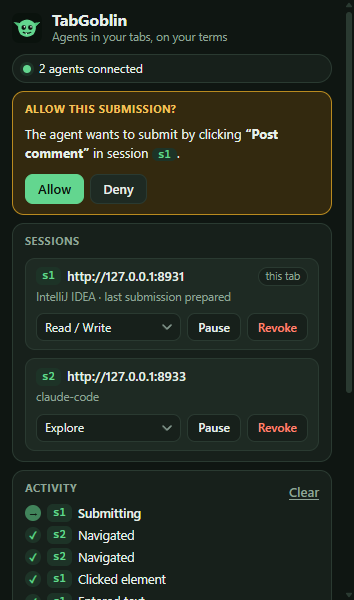
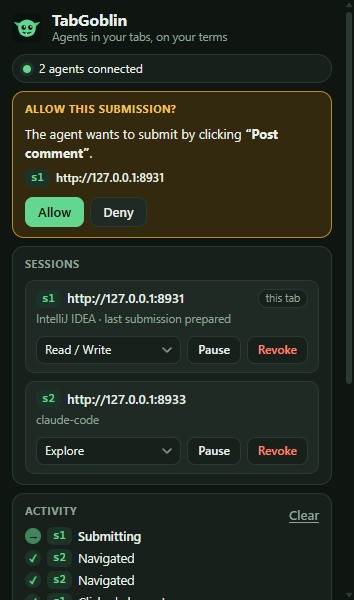
Give the confirmation prompt its final look, checked by eye
The prompt for Enter in a text box was put together from the one for a
click. Looked at in the real popup, in both colour schemes and with a long
name, a high-impact name and no name, it had these flaws:

- The session chip ended the sentence, leaving a period standing alone.
- The explanation ran on in the same weight as the question.
- It did not say which website it was about.
- A long name was cut in the middle of a word, without a mark.
- A text box without a name was shown as a quotation, "a text box".
- A prompt for deleting or paying looked like any other.

Now the question stands alone, with Enter drawn as a key. The explanation
is a line of its own in the muted colour. Below it are the session and its
website. A name that is cut is cut at a word and ends in an ellipsis. What
has no name is described in plain words. A high-impact prompt is in the
colour of danger, its Allow button included. The prompt for a click has
the same structure.

The pictures in docs/images are regenerated from the real popup, and the
user guide shows the new prompt next to the one for a click.

Claude-Session: https://claude.ai/code/session_01Jo6BBeS5qe77AnBj7zFUgi

Changed region(s): [[0.0311, 0.24, 0.9633, 1.0], [0.7147, 0.54, 0.8701, 0.6], [0.9633, 0.63, 0.9944, 0.66]]

diff --git a/chrome-extension/src/popup.ts b/chrome-extension/src/popup.ts
@@ -281,10 +281,19 @@ function render(): void {
     const enter = s.pendingConfirm.how === 'enter';
     $('confirmTitle').textContent = s.pendingConfirm.highImpact ? 'Allow this high-impact action?'
       : enter ? 'Allow pressing Enter?' : 'Allow this submission?';
-    $('confirmHow').textContent = enter ? 'The agent wants to press Enter in' : 'The agent wants to submit by clicking';
-    $('confirmWhy').textContent = enter ? ' In a message or comment box that sends what is written there.' : '';
-    $('confirmLabel').textContent = `“${s.pendingConfirm.label || 'an unnamed control'}”`;
+    // What deletes, pays or publishes does not look like a routine question.
+    $('confirm').classList.toggle('high', s.pendingConfirm.highImpact);
+    $('confirmClick').hidden = enter;
+    $('confirmEnter').hidden = !enter;
+    $('confirmWhy').hidden = !enter;
+    // The name comes from the page: shown as a quotation. What has no name is described in our own words.
+    const label = s.pendingConfirm.label;
+    $('confirmLabel').textContent = label ? `“${label}”` : enter ? 'a text box without a name' : 'a control without a name';
+    $('confirmLabel').classList.toggle('unnamed', !label);
+    // Where: the session, and the website it is on, so that the list below need not be searched.
+    const where = s.sessions.find((x) => x.id === s.pendingConfirm?.session);
     $('confirmSession').textContent = s.pendingConfirm.session;
+    $('confirmOrigin').textContent = where ? displayOrigin(where.origin) : '';
   }
 
   renderAgents(s);

diff --git a/chrome-extension/test/interact.test.ts b/chrome-extension/test/interact.test.ts
@@ -295,6 +295,22 @@ test('Enter in any text box may send what is written; search boxes and open opti
   assert.equal(d('text').click, null, 'focusable by script only: not a control');
 });
 
+test('a long name is cut at a word and marked as cut, for the prompt the user reads', () => {
+  const { doc } = page(`
+    <textarea id="long" aria-label="Reply to the whole thread, visible to everyone in the project"></textarea>
+    <textarea id="word" aria-label="${'x'.repeat(80)}"></textarea>
+    <button id="button">Delete the repository and everything in it, including all issues and wikis</button>
+    <textarea id="short" aria-label="Comment"></textarea>
+  `);
+  const key = (id: string): string => describeKeyTarget(doc.getElementById(id)!, 'Enter').label;
+  assert.equal(key('long'), 'Reply to the whole thread, visible to everyone in the…');
+  assert.equal(key('word'), `${'x'.repeat(59)}…`, 'one long word is cut where it has to be');
+  assert.equal(key('short'), 'Comment');
+  const button = describeClickTarget(doc.getElementById('button')!);
+  assert.ok(button.label.length <= 60 && button.label.endsWith('…'), button.label);
+  assert.equal(button.submit, 'likely', 'and what it says is still recognised');
+});
+
 test('Enter or Space on a control is described as the click it is', () => {
   const { doc } = page(`
     <form method="post"><input id="name"><button id="save">Save</button><input id="agree" type="checkbox"></form>

diff --git a/chrome-extension/src/interact.ts b/chrome-extension/src/interact.ts
@@ -25,11 +25,20 @@ function isSearchForm(form: HTMLFormElement): boolean {
   return !!form.closest('[role="search"], search') || !!form.querySelector('input[type="search"]');
 }
 
+/** An element's name, short enough for a prompt or a message: cut at a word where it can be, and marked as cut. */
+function shortName(el: Element, max = 60): string {
+  const name = accessibleName(el);
+  if (name.length <= max) return name;
+  const cut = name.slice(0, max - 1);
+  const word = cut.lastIndexOf(' ');
+  return `${(word > max / 2 ? cut.slice(0, word) : cut).trimEnd()}…`;
+}
+
 /** Describes what clicking an element would mean, so the policy can decide before anything happens. */
 export function describeClickTarget(el: Element): ClickTarget {
   const tag = el.localName;
   const type = inputType(el);
-  const label = accessibleName(el).slice(0, 60);
+  const label = shortName(el);
   const role = roleOf(el);
   let readSafe = false;
   let externalLink = false;
@@ -259,7 +268,7 @@ function choosesAnOption(el: Element): boolean {
  * what is written there.
  */
 export function describeKeyTarget(el: Element, key: string): KeyTarget {
-  const label = accessibleName(el).slice(0, 60);
+  const label = shortName(el);
   const none: KeyTarget = { submit: null, click: null, label };
   // In the order in which `pressKey` decides what the key does.
   const form = key === 'Enter' ? fieldOfForm(el) : null;

diff --git a/chrome-extension/src/popup.css b/chrome-extension/src/popup.css
@@ -151,6 +151,23 @@ button.link:hover { color: var(--fg); }
 /* ---------- confirmation ---------- */
 .confirm { background: var(--warn-soft); border-color: var(--warn-line); }
 .confirm p { margin-bottom: 10px; }
+.confirm .ask { margin-bottom: 6px; }
+.confirm .ask .unnamed { font-weight: inherit; }
+.confirm .why { color: var(--muted); font-size: 12px; margin-bottom: 8px; text-wrap: balance; }
+.confirm .where { display: flex; align-items: center; gap: 6px; margin-bottom: 10px; font-size: 12px; }
+.confirm .where .origin { min-width: 0; font-weight: 600; overflow: hidden; text-overflow: ellipsis; white-space: nowrap; }
+/* Deleting, paying, publishing: the colour of danger, and an Allow button that does not invite a quick click. */
+.confirm.high { background: var(--bad-soft); border-color: var(--bad); }
+.confirm.high h2 { color: var(--bad); }
+.confirm.high kbd { border-color: var(--bad); }
+.confirm.high button.primary { background: var(--bad); border-color: var(--bad); }
+/* A key, drawn as one. */
+kbd {
+  display: inline-block; padding: 0 6px; border-radius: 5px;
+  font: 600 11px/17px ui-monospace, "Cascadia Code", Consolas, monospace;
+  background: var(--card); color: var(--fg);
+  border: 1px solid var(--warn-line); border-bottom-width: 2px;
+}
 
 /* ---------- agents ---------- */
 .list { list-style: none; margin: 0; padding: 0; display: flex; flex-direction: column; gap: 6px; }

diff --git a/chrome-extension/src/popup.html b/chrome-extension/src/popup.html
@@ -46,7 +46,12 @@
 
     <section id="confirm" class="card confirm" hidden>
       <h2 id="confirmTitle">Allow this submission?</h2>
-      <p><span id="confirmHow">The agent wants to submit by clicking</span> <strong id="confirmLabel"></strong> in session <span id="confirmSession" class="sid"></span>.<span id="confirmWhy"></span></p>
+      <p class="ask">
+        <span id="confirmClick">The agent wants to submit by clicking</span><span id="confirmEnter" hidden>The agent wants to press <kbd>Enter</kbd> in</span>
+        <strong id="confirmLabel"></strong>.
+      </p>
+      <p id="confirmWhy" class="why" hidden>In a message or comment box, Enter sends what is written.</p>
+      <div class="where"><span id="confirmSession" class="sid"></span><span id="confirmOrigin" class="origin"></span></div>
       <div class="row">
         <button id="allow" class="primary">Allow</button>
         <button id="deny">Deny</button>

diff --git a/chrome-extension/src/background.ts b/chrome-extension/src/background.ts
@@ -717,7 +717,7 @@ async function pressKey(op: Operation, session: SessionRecord, params: Record<st
     return submit(op, session, { ref: Number(params.ref), fields: [], expectText: undefined, submissionId: undefined, repeat: false });
   }
   if (verdict === 'ask') {
-    await confirmWithUser(op, session, target.label || (target.submit === 'form' ? 'a form field' : 'a text box'), 'enter');
+    await confirmWithUser(op, session, target.label, 'enter');
   }
   const before = { url: (await getTab(session.tabId))?.url, docId: session.documentId, at: Date.now() };
   const result = await page<object>(op, session, 'press_key', { ref: params.ref, key });

diff --git a/docs/agents/state.md b/docs/agents/state.md
@@ -6,8 +6,9 @@ Last updated: 2026-11-21. Claims here go stale; check the date, then `git status
 
 - `main` = `origin/main` = `ba977cd`: the merge of `editor-keys`, made by the owner on 2026-11-21.
   Earlier that day the owner merged `editor-compatibility`. Both branches are finished.
-- Branch `typed-lines`: local, not pushed, not merged. Two commits on top of `ba977cd`: a fill
+- Branch `typed-lines`: local, not pushed, not merged. Three commits on top of `ba977cd`: a fill
   never presses Enter, and Enter in a text box is a submission that the user allows in the popup.
+  A third commit gives that prompt its final look and regenerates the pictures in `docs/images`.
 
 ## Active work
 
@@ -25,9 +26,6 @@ Last updated: 2026-11-21. Claims here go stale; check the date, then `git status
   untested. The CI unit jobs are Linux, unverified for the same reason as above.
 - **No hover.** CSS `:hover` cannot be set without the debugger, so a hover tool was decided
   against on 2026-11-21; the limit is recorded in the root `README.md`.
-- **No picture of the new prompt.** The popup asks "Allow pressing Enter?" for Enter in a text
-  box. `docs/images/popup-confirm.png` shows the prompt for a click, which is unchanged. A picture
-  of the new one needs `HEADED=1 node screenshots.mjs` and a step for it in that script.
 - **Not tried:** real products built on the tested editor libraries, and IntelliJ's own agent.
 
 ## Handoff

diff --git a/docs/agents/validation-log.md b/docs/agents/validation-log.md
@@ -3,6 +3,21 @@
 Newest first. One entry per session that verified something. Not part of the startup read.
 When this passes about ten entries, fold the oldest into one summary line.
 
+## 2026-11-21, on `typed-lines`, third commit
+
+The look of the confirmation prompt, checked by eye. No change to what is asked or when.
+
+| What | Result |
+|---|---|
+| The prompt in the real popup, headless: click, Enter, a long name, a high-impact name, no name; each in the dark and the light theme | 20 pictures looked at; three defects found and fixed (a name cut mid-word, a missing name shown as a quotation, a high-impact prompt that looked routine) |
+| `HEADED=1 node screenshots.mjs` | all ten pictures written; the six that changed were looked at one by one. The example outputs came out identical. |
+| `cd chrome-extension && npm run check` | type-check clean, 120 tests, build |
+| `cd e2e && npm test` | 86 passed, 0 failed |
+| `node docs/agents/check-links.mjs` | all resolve |
+
+Not run again: the Java build and the editor lab. Neither is touched by this commit, which changes
+the popup, the wording of what has no name, and how a long name is shortened.
+
 ## 2026-11-21, on `typed-lines`, second commit
 
 Enter in a text box is a submission; Enter or Space on a control follows the rules of a click.

diff --git a/docs/user-guide.md b/docs/user-guide.md
@@ -127,12 +127,14 @@ with the second toggle.
 Anything that sends or changes data is a submission, and is treated differently from reading and
 filling in fields.
 
-<img src="images/popup-confirm.png" width="354" alt="The popup asking to allow a submission">
+<img src="images/popup-confirm.png" width="354" alt="The popup asking to allow a submission by a click"> <img src="images/popup-confirm-enter.png" width="354" alt="The popup asking to allow pressing Enter in a text box">
 
 - The agent has to declare it. A click that would submit is refused otherwise.
 - Pressing Enter in a text box counts as well: in a chat or comment box it sends what is written.
-  The prompt then reads **Allow pressing Enter?** and names the text box. Search boxes are left
-  alone.
+  The prompt then reads **Allow pressing Enter?** (the picture on the right). Search boxes are
+  left alone.
+- The prompt names the control or text box as the page names it, and below that the session and
+  its website. For deleting, paying, publishing and the like it is red instead of amber.
 - With **Ask me before the agent submits anything** on (the default), you get this prompt. Nothing
   is typed or clicked until you press **Allow**; **Deny**, or no answer within a minute, means
   nothing happens.

diff --git a/README.md b/README.md
@@ -76,7 +76,7 @@ The [installation guide](docs/installation.md) walks through each step with what
 
 ```sh
 mvn -f java-server/pom.xml test         # 52 tests
-cd chrome-extension && npm run check    # 119 tests, type-check, build
+cd chrome-extension && npm run check    # 120 tests, type-check, build
 cd e2e && npm install && npm test       # 86 steps in your Chrome, against three demo sites
 cd e2e/editors && npm install && npm test   # text entry into 14 real editor libraries
 ```
